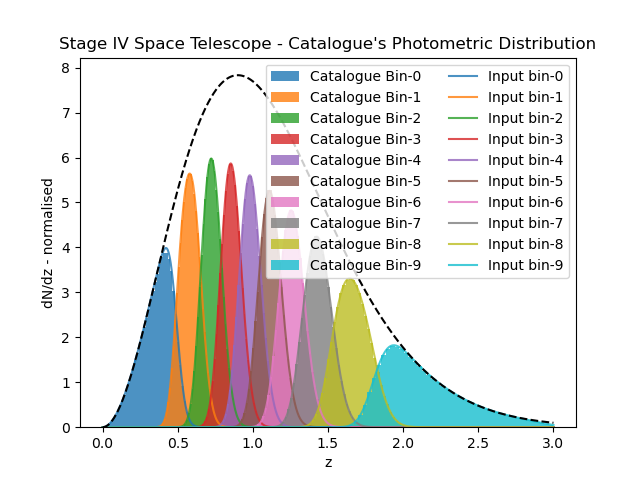
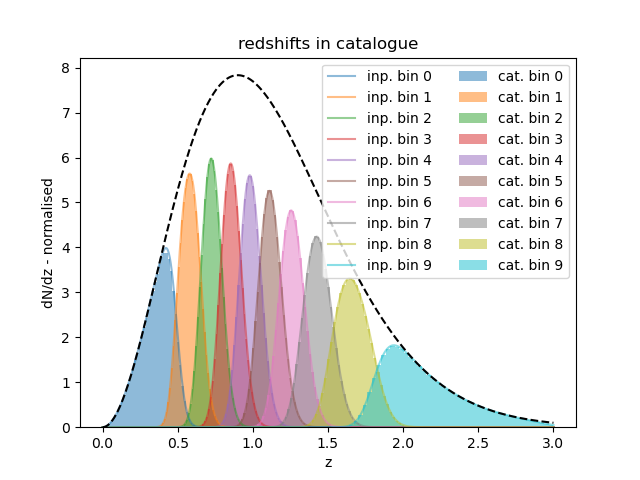
update outputs

Changed region(s): [[0.0938, 0.0625, 0.9375, 0.9062]]

diff --git a/examples/2_advanced/plot_s4_galaxies.py b/examples/2_advanced/plot_s4_galaxies.py
@@ -139,7 +139,7 @@ for shell in glass.sim.generate(generators):
     catalogue['E2'] = np.append(catalogue['E2'], shell['gal_ell'].imag)
     catalogue['TOMO_ID'] = np.append(catalogue['TOMO_ID'], shell['gal_pop'])
 
-print(f'Total Number of galaxies sampled: {len(catalogue['TRUE_Z']):,}')
+print(f"Total Number of galaxies sampled: {len(catalogue['TRUE_Z']):,}")
 
 # %%
 # Catalogue checks

diff --git a/docs/examples/2_advanced/plot_s4_galaxies.rst b/docs/examples/2_advanced/plot_s4_galaxies.rst
@@ -18,7 +18,7 @@
 .. _sphx_glr_examples_2_advanced_plot_s4_galaxies.py:
 
 
-Stage-IV Galaxy Survey
+Stage IV Galaxy Survey
 ======================
 
 This example simulates a galaxy catalogue from a Stage IV Space Satellite Galaxy Survey such as
@@ -96,7 +96,7 @@ Here we setup the overall source redshift distribution
 and separate it into equal density tomographic bins
 with the typical redshift errors of a photometric survey.
 
-.. GENERATED FROM PYTHON SOURCE LINES 66-81
+.. GENERATED FROM PYTHON SOURCE LINES 66-82
 
 .. code-block:: default
 
@@ -104,13 +104,14 @@ with the typical redshift errors of a photometric survey.
     # setting up the random number generator:
     rng = np.random.default_rng(seed=42)
 
-    # photometric redshift distribution following a Smail distribution
+    # true redshift distribution following a Smail distribution
     z = np.linspace(0, 3.0, 1000)
     dndz = glass.observations.smail_nz(z, z_mode=0.9, alpha=2., beta=1.5)
     dndz *= n_arcmin2
     bz = 1.2
 
-    # equal density bins:
+    # compute bin edges with equal density
+    # then make tomographic bins, assuming photometric redshift errors
     nbins = 10
     zedges = glass.observations.equal_dens_zbins(z, dndz, nbins=nbins)
     bin_nz = glass.observations.tomo_nz_gausserr(z, dndz, sigma_z0, zedges)
@@ -122,17 +123,17 @@ with the typical redshift errors of a photometric survey.
 
 
 
-.. GENERATED FROM PYTHON SOURCE LINES 82-84
+.. GENERATED FROM PYTHON SOURCE LINES 83-85
 
 Plotting the overall redshift distribution and the
 distribution for each of the equal density tomographic bins
 
-.. GENERATED FROM PYTHON SOURCE LINES 84-98
+.. GENERATED FROM PYTHON SOURCE LINES 85-99
 
 .. code-block:: default
 
     plt.figure()
-    plt.title("Stage IV Space Telescope - Photometric Distribution: equal density bins")
+    plt.title('redshift distributions')
     sum_nz = np.zeros_like(bin_nz[0])
     for nz in bin_nz:
         plt.fill_between(z, nz, alpha=0.5)
@@ -149,7 +150,7 @@ distribution for each of the equal density tomographic bins
 
 
 .. image-sg:: /examples/2_advanced/images/sphx_glr_plot_s4_galaxies_001.png
-   :alt: Stage IV Space Telescope - Photometric Distribution: equal density bins
+   :alt: redshift distributions
    :srcset: /examples/2_advanced/images/sphx_glr_plot_s4_galaxies_001.png, /examples/2_advanced/images/sphx_glr_plot_s4_galaxies_001_2_0x.png 2.0x
    :class: sphx-glr-single-img
 
@@ -157,12 +158,12 @@ distribution for each of the equal density tomographic bins
 
 
 
-.. GENERATED FROM PYTHON SOURCE LINES 99-101
+.. GENERATED FROM PYTHON SOURCE LINES 100-102
 
 Make a visibility map typical of a space telescope survey, seeing both
 hemispheres, and low visibility in the galactic and ecliptic bands.
 
-.. GENERATED FROM PYTHON SOURCE LINES 101-107
+.. GENERATED FROM PYTHON SOURCE LINES 102-108
 
 .. code-block:: default
 
@@ -184,11 +185,11 @@ hemispheres, and low visibility in the galactic and ecliptic bands.
 
 
 
-.. GENERATED FROM PYTHON SOURCE LINES 108-109
+.. GENERATED FROM PYTHON SOURCE LINES 109-110
 
 generators for the clustering and lensing
 
-.. GENERATED FROM PYTHON SOURCE LINES 109-121
+.. GENERATED FROM PYTHON SOURCE LINES 110-122
 
 .. code-block:: default
 
@@ -211,14 +212,14 @@ generators for the clustering and lensing
 
 
 
-.. GENERATED FROM PYTHON SOURCE LINES 122-126
+.. GENERATED FROM PYTHON SOURCE LINES 123-127
 
 Simulation
 ----------
 Simulate the galaxies with shears.  In each iteration, get the quantities of interest
 to build our mock catalogue.
 
-.. GENERATED FROM PYTHON SOURCE LINES 126-143
+.. GENERATED FROM PYTHON SOURCE LINES 127-144
 
 .. code-block:: default
 
@@ -237,7 +238,7 @@ to build our mock catalogue.
         catalogue['E2'] = np.append(catalogue['E2'], shell['gal_ell'].imag)
         catalogue['TOMO_ID'] = np.append(catalogue['TOMO_ID'], shell['gal_pop'])
 
-    print(f"Total Number of galaxies sampled: {len(catalogue['TRUE_Z'])}")
+    print(f"Total Number of galaxies sampled: {len(catalogue['TRUE_Z']):,}")
 
 
 
@@ -249,32 +250,32 @@ to build our mock catalogue.
 
  .. code-block:: none
 
-    Total Number of galaxies sampled: 22512724
+    Total Number of galaxies sampled: 22,512,724
 
 
 
 
-.. GENERATED FROM PYTHON SOURCE LINES 144-148
+.. GENERATED FROM PYTHON SOURCE LINES 145-149
 
 Catalogue checks
 ----------------
-Here we can perform some simple checks at the catlaogue legal to
+Here we can perform some simple checks at the catalogue level to
 see how our simulation performed.
 
-.. GENERATED FROM PYTHON SOURCE LINES 148-161
+.. GENERATED FROM PYTHON SOURCE LINES 149-162
 
 .. code-block:: default
 
 
     # redshift distribution of tomographic bins & input distributions
     plt.figure()
-    plt.title("Stage IV Space Telescope - Catalogue's Photometric Distribution")
+    plt.title('redshifts in catalogue')
     plt.ylabel("dN/dz - normalised")
     plt.xlabel("z")
     for i in range(0, 10):
-        plt.hist(catalogue['TRUE_Z'][catalogue['TOMO_ID'] == i], histtype='stepfilled', edgecolor='none', alpha=0.8, bins=50, density=1, label=f'Catalogue Bin-{i}')
+        plt.hist(catalogue['TRUE_Z'][catalogue['TOMO_ID'] == i], histtype='stepfilled', edgecolor='none', alpha=0.5, bins=50, density=1, label=f'cat. bin {i}')
     for i in range(0, 10):
-        plt.plot(z, (bin_nz[i]/n_arcmin2)*nbins, alpha=0.8, label=f'Input bin-{i}')
+        plt.plot(z, (bin_nz[i]/n_arcmin2)*nbins, alpha=0.5, label=f'inp. bin {i}')
     plt.plot(z, dndz/n_arcmin2*nbins, ls='--', c='k')
     plt.legend(ncol=2)
     plt.show()
@@ -282,7 +283,7 @@ see how our simulation performed.
 
 
 .. image-sg:: /examples/2_advanced/images/sphx_glr_plot_s4_galaxies_003.png
-   :alt: Stage IV Space Telescope - Catalogue's Photometric Distribution
+   :alt: redshifts in catalogue
    :srcset: /examples/2_advanced/images/sphx_glr_plot_s4_galaxies_003.png, /examples/2_advanced/images/sphx_glr_plot_s4_galaxies_003_2_0x.png 2.0x
    :class: sphx-glr-single-img
 

diff --git a/docs/examples/index.rst b/docs/examples/index.rst
@@ -109,7 +109,7 @@ More advanced examples, combining multiple interacting generators.
 .. only:: html
 
  .. figure:: /examples/2_advanced/images/thumb/sphx_glr_plot_s4_galaxies_thumb.png
-     :alt: Stage-IV Galaxy Survey
+     :alt: Stage IV Galaxy Survey
 
      :ref:`sphx_glr_examples_2_advanced_plot_s4_galaxies.py`
 
